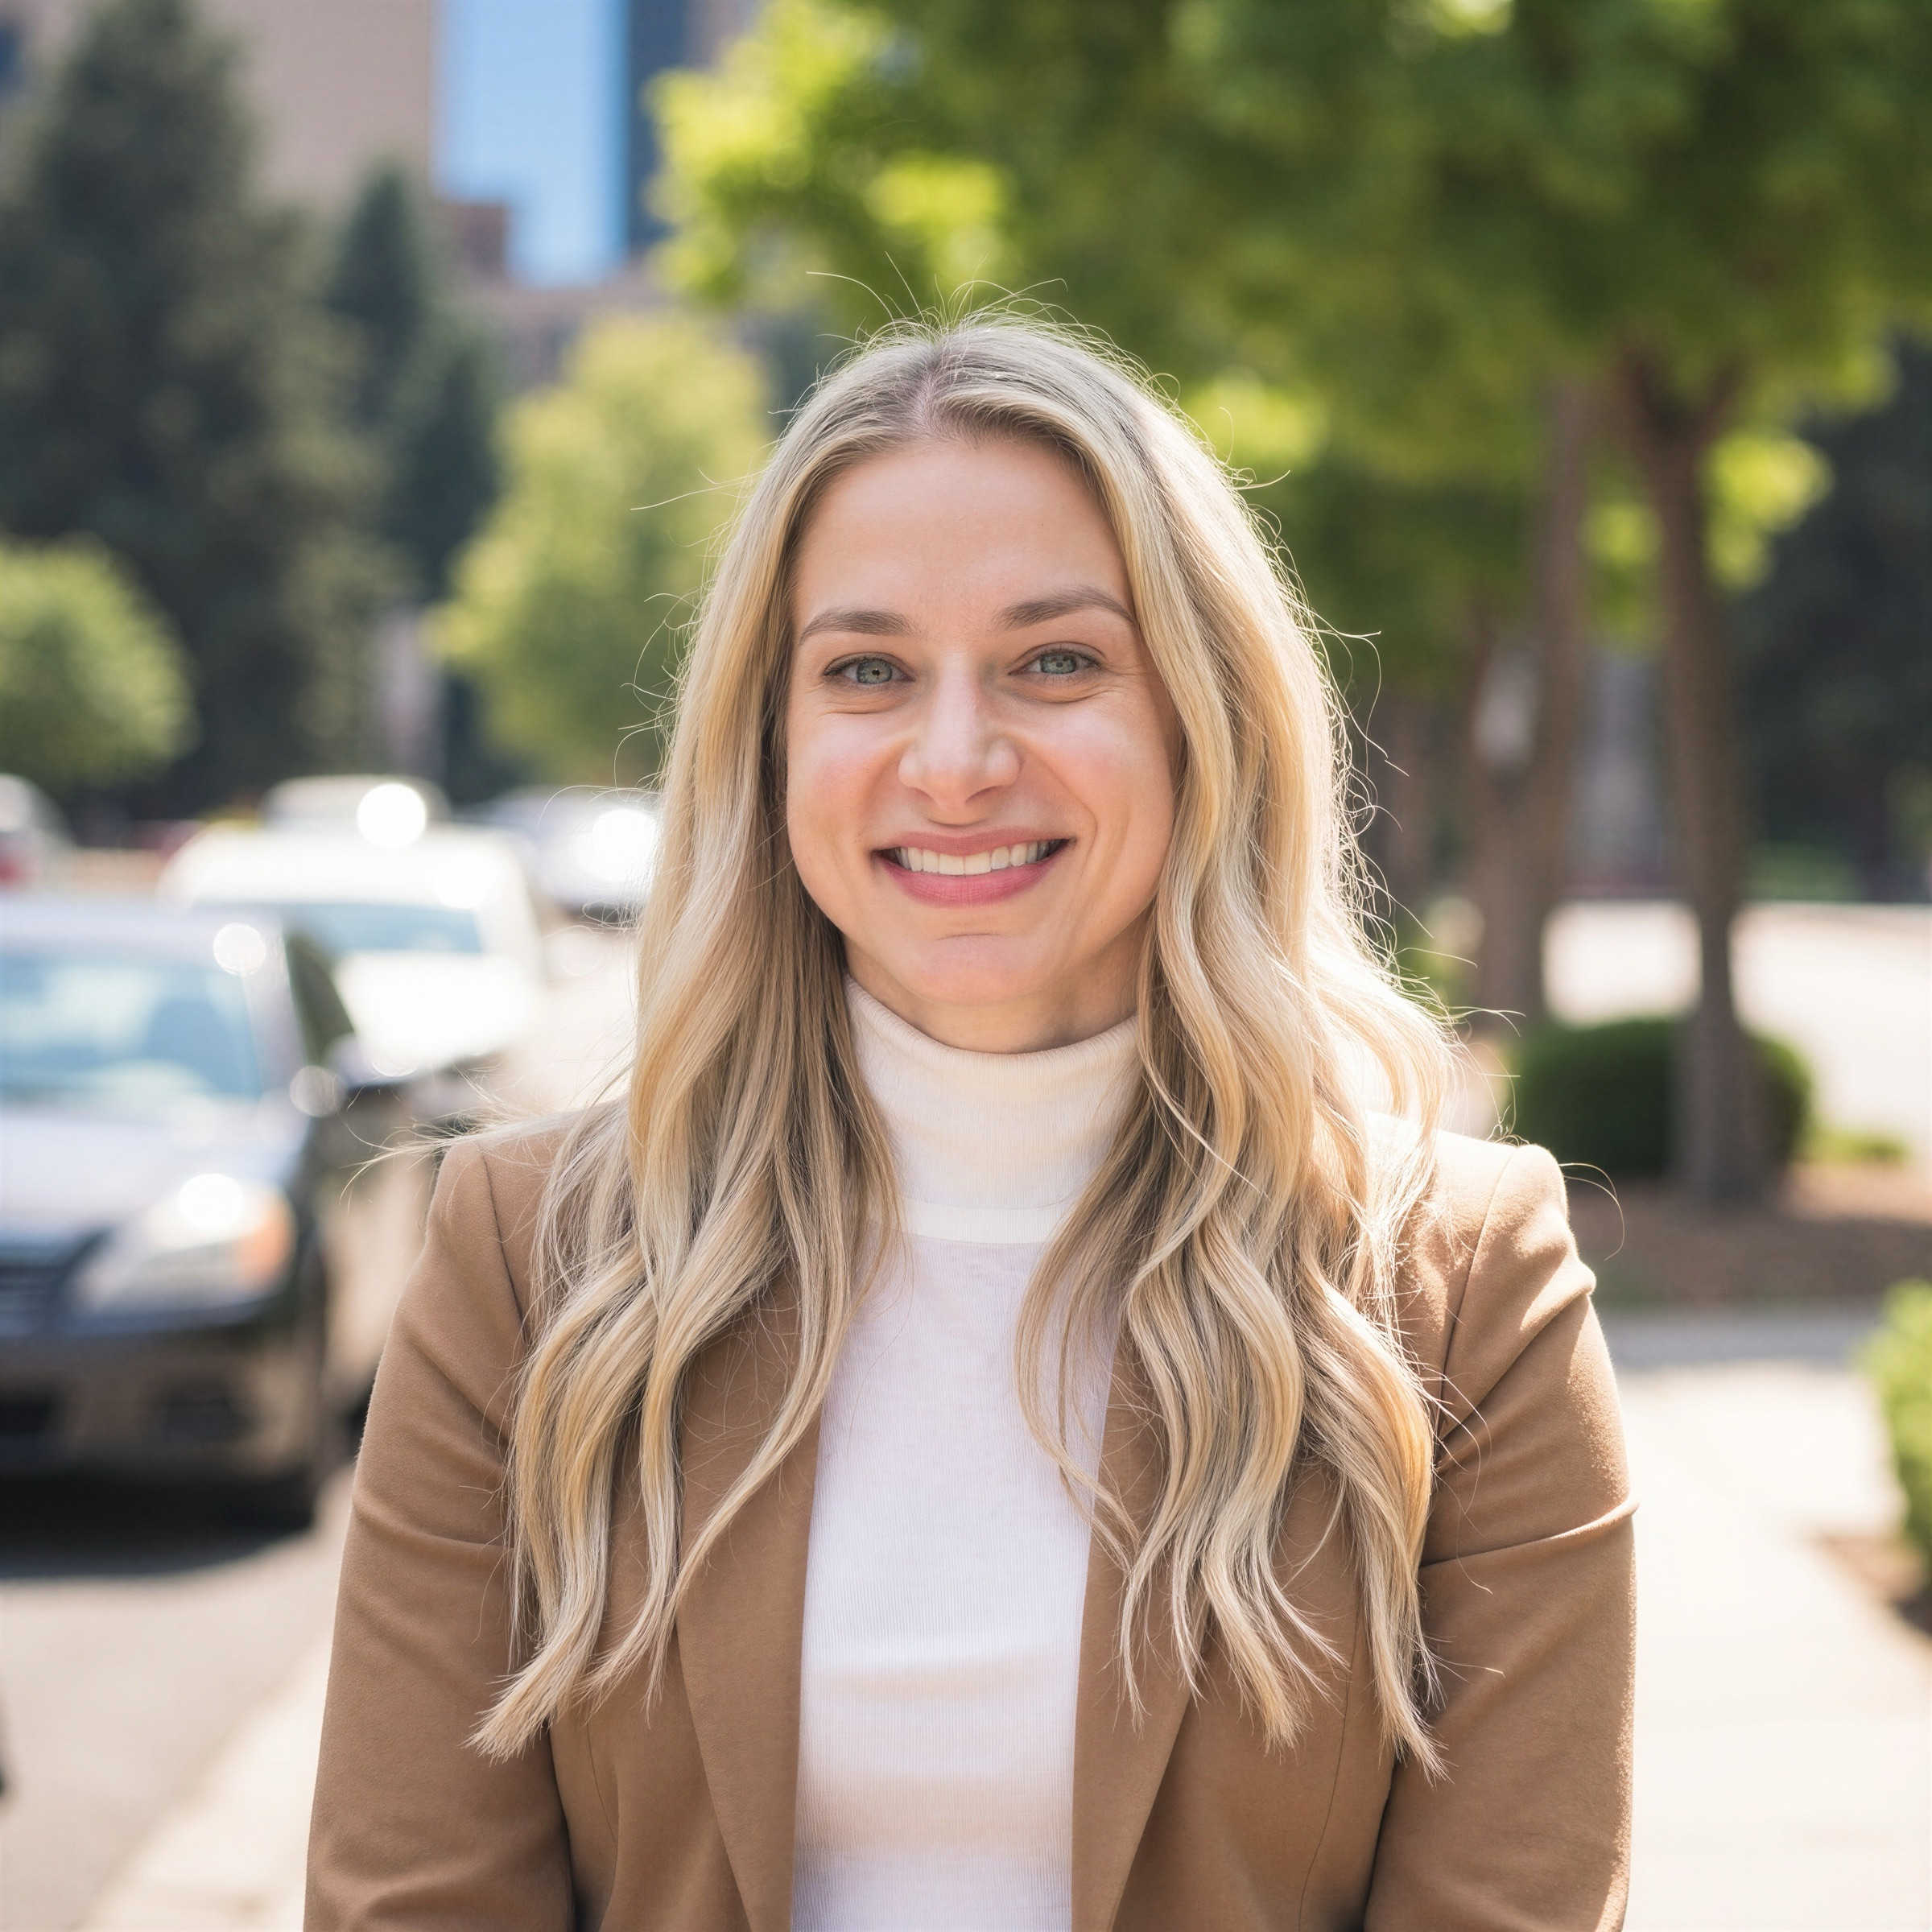
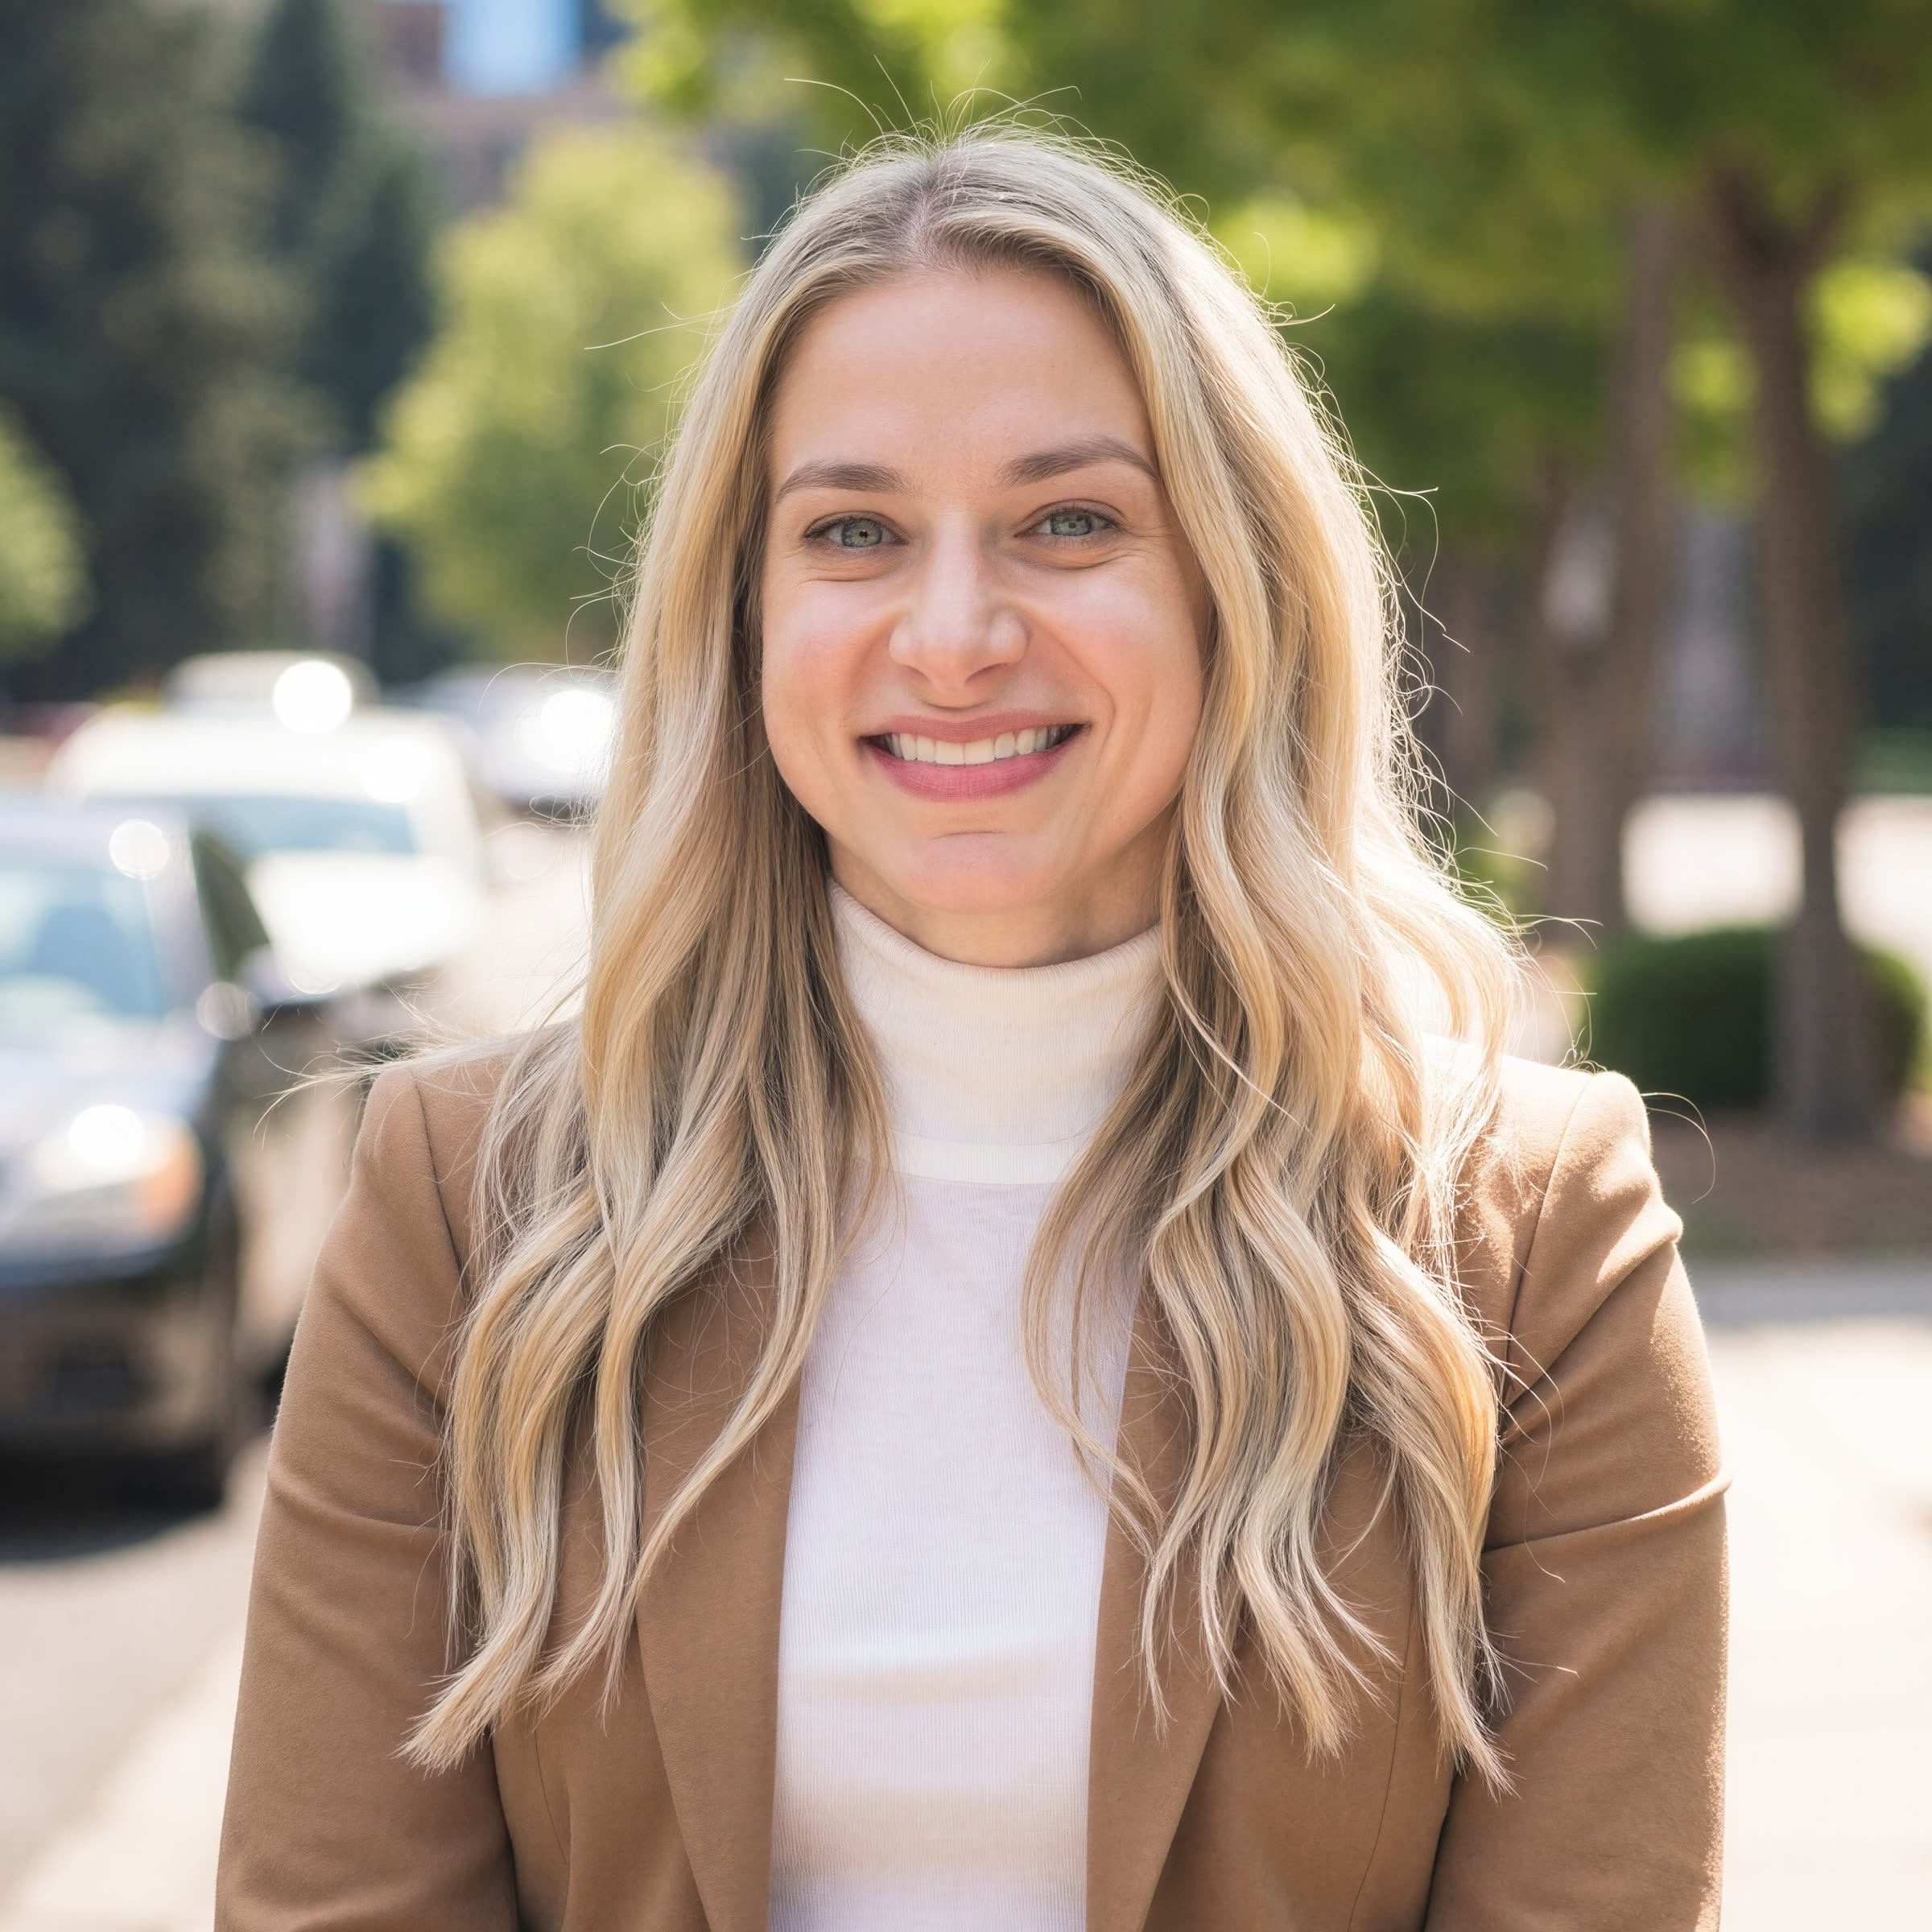
Add Julie intro video section

diff --git a/notably-site/styles.css b/notably-site/styles.css
@@ -1579,23 +1579,59 @@ strong { font-weight: 500; }
   padding: var(--s-10) var(--gutter);
   gap: var(--s-8);
   background: var(--c-off-white);
-  align-items: stretch;
+  align-items: center;
 }
-.julie__photo {
-  flex: 0.9;
-  min-height: 520px;
+.julie__media {
+  flex: 1.05;
+  aspect-ratio: 16 / 10;
   background-color: var(--c-off-black);
-  background-image: url("assets/julie.jpg");
-  background-size: cover;
-  background-position: 50% 0%;
   border-radius: var(--r-photo);
+  overflow: hidden;
+  box-shadow: 12px 14px 0 0 rgba(39, 40, 38, 0.08);
+}
+.julie__video {
+  width: 100%;
+  height: 100%;
+  display: block;
+  object-fit: cover;
 }
 .julie__body {
-  flex: 1.2;
+  flex: 0.95;
   display: flex;
   flex-direction: column;
   gap: var(--s-5);
   padding: 8px 0;
+}
+.julie__profile {
+  display: flex;
+  align-items: center;
+  gap: 16px;
+}
+.julie__avatar {
+  width: 92px;
+  height: 92px;
+  flex: 0 0 92px;
+  border: 1px solid rgba(39, 40, 38, 0.16);
+  border-radius: 999px;
+  object-fit: cover;
+  object-position: 50% 38%;
+}
+.julie__profile-copy {
+  display: flex;
+  flex-direction: column;
+  gap: 4px;
+}
+.julie__name {
+  font-family: var(--font-sans);
+  font-size: 18px;
+  line-height: 1.2;
+}
+.julie__role {
+  max-width: 300px;
+  font-family: var(--font-serif);
+  font-size: 15px;
+  line-height: 1.25;
+  color: rgba(39, 40, 38, 0.68);
 }
 .julie__headline {
   font-family: var(--font-sans);
@@ -1613,11 +1649,17 @@ strong { font-weight: 500; }
 
 @media (max-width: 1024px) {
   .julie { flex-direction: column; padding: var(--s-10) 40px; }
-  .julie__photo { min-height: 420px; }
+  .julie__media { width: 100%; }
 }
 @media (max-width: 640px) {
   .julie { padding: var(--s-8) 20px; }
-  .julie__photo { min-height: 360px; }
+  .julie__media { aspect-ratio: 16 / 11; }
+  .julie__profile { align-items: flex-start; }
+  .julie__avatar {
+    width: 76px;
+    height: 76px;
+    flex-basis: 76px;
+  }
 }
 
 

diff --git a/notably-site/index.html b/notably-site/index.html
@@ -362,8 +362,19 @@
 
       <!-- ─────────────────────────  MEET JULIE  ───────────────────────── -->
       <section class="julie" id="julie" data-review-id="julie">
-        <div class="julie__photo" role="img" aria-label="Julie Anich portrait"></div>
+        <div class="julie__media">
+          <video class="julie__video" controls preload="metadata" playsinline poster="assets/julie-video-poster.jpg" aria-label="Julie Anich introduction video">
+            <source src="assets/julie-intro.mp4" type="video/mp4" />
+          </video>
+        </div>
         <div class="julie__body">
+          <div class="julie__profile">
+            <img class="julie__avatar" src="assets/julie.jpg" alt="Julie Anich" />
+            <div class="julie__profile-copy">
+              <span class="julie__name">Julie Anich, CPA</span>
+              <span class="julie__role">Independent Director, Placement Services</span>
+            </div>
+          </div>
           <h2 class="julie__headline">Julie Has Lived in the World She Now Recruits For.</h2>
           <p>Julie brings something rare to accounting and finance recruiting. With experience working as a CPA in public accounting, as well as in accounting and finance specialized recruitment, she understands the technical side of the roles as well as the human side of the hiring process.</p>
           <p>Her approach is consultative, thoughtful, and direct, helping companies make hiring decisions with more confidence and less noise.</p>